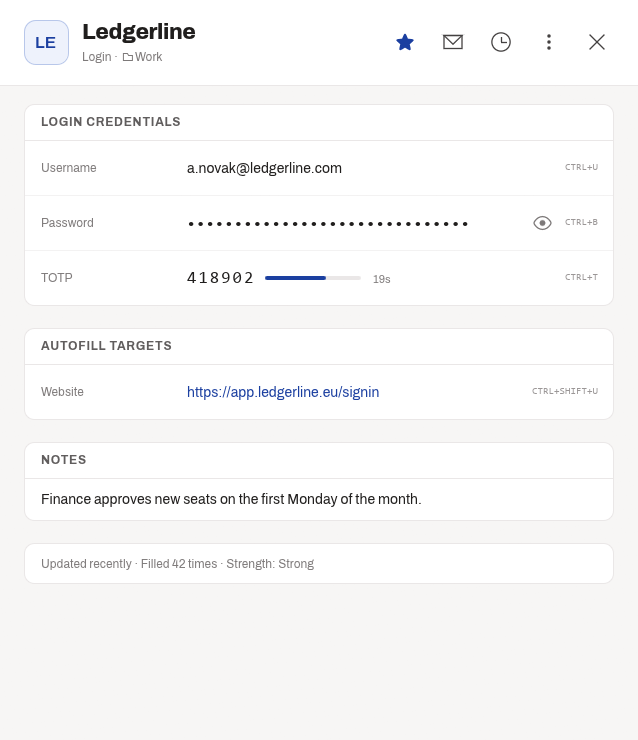
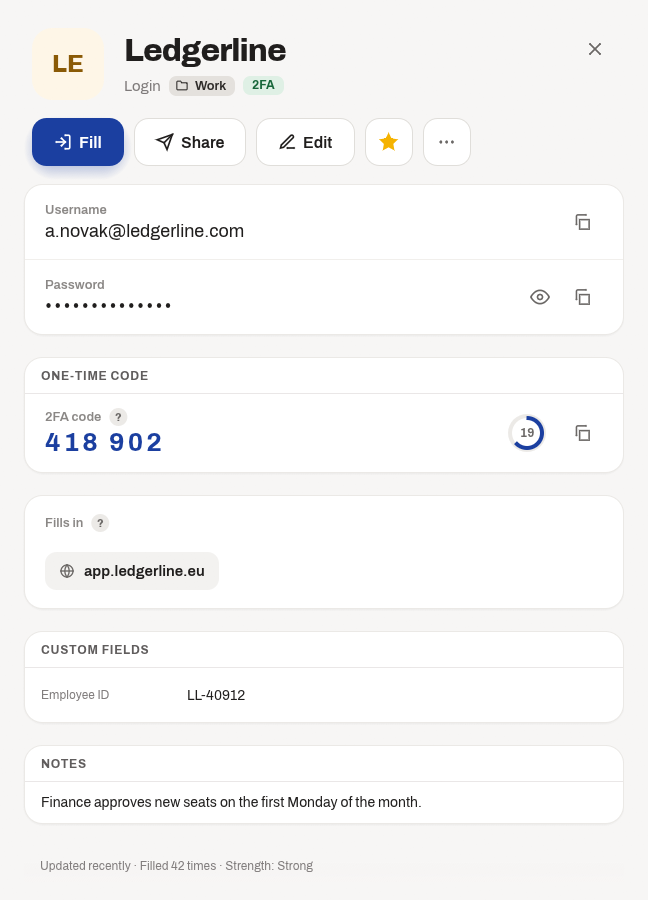
Deskwarden 1.0.0
The v2 design, built end to end on v1, cut as 1.0.0: CHANGELOG entry,
version off -dev, the Cargo.toml pin hopped, and the screenshots the README
and SCREENSHOTS page show re-rendered from ui_preview.

diff --git a/deskwarden/src/job_object.rs b/deskwarden/src/job_object.rs
@@ -3232,7 +3232,19 @@ mod tests {
             // appeared, and `[build-dependencies]` still reads exactly
             // `winresource = "0.1"`. Same FNV-1a/64 implementation, first run against
             // the v1 pair (31047, 0x2ca1_25c6_7fa6_fee0), which it reproduced.
-            (31314, 0xf99c_5ac7_7f8b_c192_u64),
+            //
+            // **31308 bytes, new hash: the 1.0.0 release, and nothing else.**
+            // `version = "0.15.31-dev"` became `"1.0.0"`, 6 bytes shorter: the
+            // v2 redesign on `v1` is cut as 1.0.0. The commit after this one puts a
+            // `-dev` suffix back.
+            //
+            // No dependency was added, removed, re-pointed or re-featured, no
+            // `[patch]`/`[replace]`/`[workspace.dependencies]` table appeared, no
+            // path or fork appeared, and `[build-dependencies]` still reads exactly
+            // `winresource = "0.1"`. Same FNV-1a/64 implementation, first run against
+            // the PREVIOUS pinned pair (31314, 0xf99c_5ac7_7f8b_c192), which it
+            // reproduced.
+            (31308, 0xc49b_4ed3_01a8_77e5_u64),
             "`Cargo.toml` is not the file this module pinned. Every line of the byte-pinned \
              `build.rs` is a call into a dependency named here, and re-pointing that name at a \
              path or a fork runs arbitrary code at BUILD time with `build.rs` untouched -- \

diff --git a/CHANGELOG.md b/CHANGELOG.md
@@ -15,6 +15,48 @@ Builds from this section report their version with a `-dev` suffix -- see
 `-dev`, the build is from the working tree and not from a
 [GitHub release](https://github.com/denis-platonov/deskwarden/releases).
 
+## 1.0.0 - 2026-11-25
+
+> Deskwarden 1.0 is the v2 design, built end to end. Every screen is new;
+> nothing 0.15 did was dropped, and it stays fully compatible with official
+> Bitwarden servers and clients.
+
+### A new look, everywhere
+
+- One window: a navy (or light) sidebar with Vault, Favorites, the item
+  kinds and your folders; a top bar with search (`Ctrl K`), the sync state
+  and your account; Tools and Settings under the gear beside the avatar.
+- Rounded corners with a soft shadow on every window, and light, dark or
+  system theme with a text-size setting.
+- The item list and the detail pane are redesigned: field cards with reveal
+  and copy, a ring round one-time codes, a card face that shows the bank and
+  network and copies its number, name, expiry or code on click.
+- The edit view, the new-item chooser, Share and Send, adding a two-factor
+  code and every small dialog are rebuilt in the same style.
+
+### New
+
+- **Settings as a screen**, twelve pages, with a `?` tip on every row that
+  needs explaining. New: open at sign-in, start in the tray, keep running on
+  close, lock on sleep or screen lock, hide passwords while the screen is
+  shared, autofill panel options, notifications, devices (sign one or all
+  others out), account and language.
+- **Password health**: weak, reused, old and breached passwords in one place.
+- **Import** from Bitwarden JSON or CSV, 1Password, Keeper, LastPass,
+  Chrome/Edge or any CSV, with duplicate detection.
+- **The generator** is its own screen, with a PIN mode and remembered defaults.
+- **The autofill panel** opens under the focused field, with key hints, and
+  the tray popup has search, recent items and quick copy.
+- **Bank and card-network logos**, with the bank named from the login it is
+  linked to.
+- **35 languages**, following your Windows display language on first start.
+- The lock screen says why the vault locked, and after how long.
+
+### Sign-in
+
+The sign-in, unlock, two-factor and signed-out screens share one split-screen
+shell with the server choice, and keep every error state 0.15 had.
+
 ## 0.15.30 - 2026-11-16
 
 > A security release: nothing in the app changed, only the libraries it is

diff --git a/docs/SCREENSHOTS.md b/docs/SCREENSHOTS.md
@@ -8,7 +8,7 @@ it draws reads a real vault, touches the network, or spawns `bw`. That is what
 makes it safe to publish pictures of a password manager's UI at all — these
 show the real interface and nobody's real logins.
 
-The full set is forty-six surfaces, including every error state, empty state
+The full set is 152 surfaces, including every error state, empty state
 and spinner. It is uploaded as the `ui-screenshots` artifact on
 [any CI run](https://github.com/denis-platonov/Deskwarden/actions/workflows/ci.yml).
 The six below are the ones worth looking at first.
@@ -17,12 +17,9 @@ The six below are the ones worth looking at first.
 
 ![The vault](screenshots/vault_window.png)
 
-*Three panes, joined. The preview renders panes rather than whole windows, so
-this is the rail, the list and the detail pane placed side by side at the
-widths and the shared height they were rendered at -- each half unretouched,
-only the joins assembled. They are also independent fixtures, which is why the
-rail highlights Logins while the list shows all twelve items: in the running
-app those two agree.*
+*The whole window, rendered in one piece: the navy rail, the list and a
+card's detail pane. The card face takes its bank's or its network's colour,
+and its bank is named from the login it is linked to.*
 
 ## One item
 
@@ -30,7 +27,8 @@ app those two agree.*
 
 ## Password health
 
-Every distinct password checked against Have I Been Pwned's k-anonymity range
+Weak, reused, old and breached passwords in one place. Every distinct password
+is checked against Have I Been Pwned's k-anonymity range
 API — the password never leaves the machine, only a five-character hash prefix
 does.
 
@@ -40,9 +38,9 @@ does.
 
 ![Adding a two-factor code](screenshots/totp_add_picker.png)
 
-## Preferences
+## Settings
 
-![Preferences](screenshots/prefs_clipboard.png)
+![Settings](screenshots/prefs_clipboard.png)
 
 ## Signing in
 
